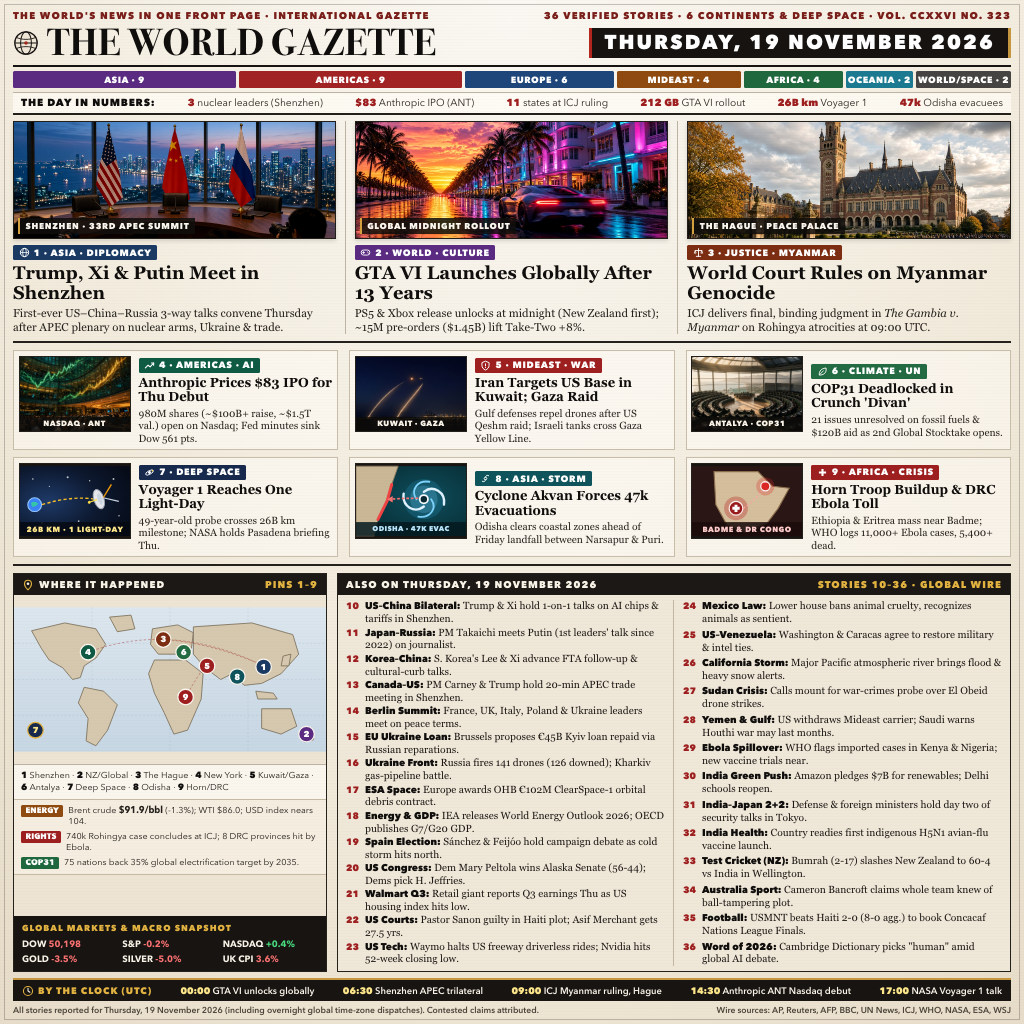
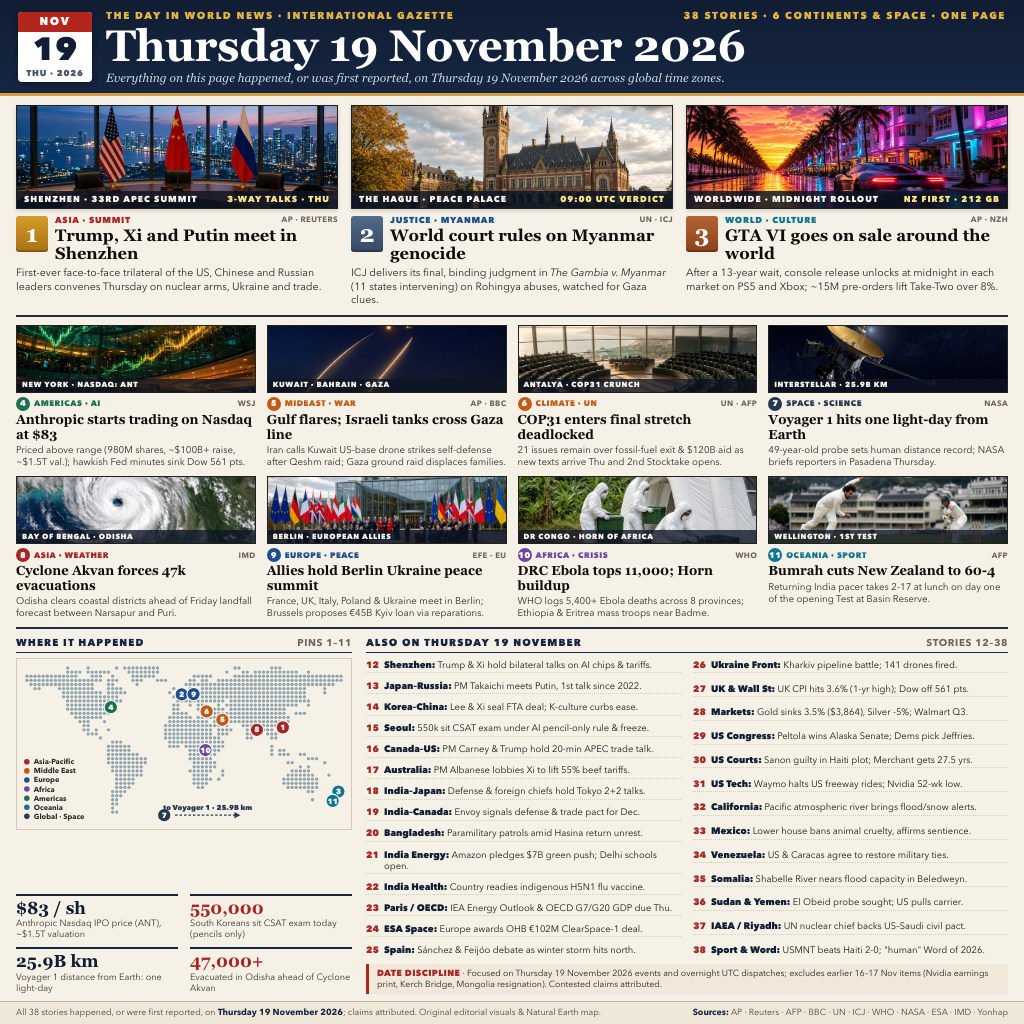
Update to World Gazette v4 image (38 stories, 6 continents)

diff --git a/README.md b/README.md
@@ -4,7 +4,7 @@
 [![rank](https://make.fun/badge/news-image-20261119/frashid17/world-dispatch-nov19/rank.svg)](https://make.fun/bounty/news-image-20261119/leaderboard?utm_source=github&utm_medium=readme&utm_campaign=news-image-20261119)
 [![reward](https://make.fun/badge/news-image-20261119/frashid17/world-dispatch-nov19/reward.svg)](https://make.fun/bounty/news-image-20261119?utm_source=github&utm_medium=readme&utm_campaign=news-image-20261119)
 
-The World Gazette edition: a single front-page image summing up 36 stories from 6 continents on Thursday 19 November 2026, with a world map and UTC clock. `main.ts` validates the bundled image as a whole PNG or JPEG under 1 MiB and 1024×1024, then copies the exact bytes to `/output/entry.png`.
+The World Gazette edition: a single front-page image summing up 38 stories from 6 continents on Thursday 19 November 2026, with a Natural Earth dot-matrix world map, 11 realistic photos and a UTC clock. `main.ts` validates the bundled image as a whole PNG or JPEG under 1 MiB and 1024×1024, then copies the exact bytes to `/output/entry.png`.
 
 ## Run it
 
